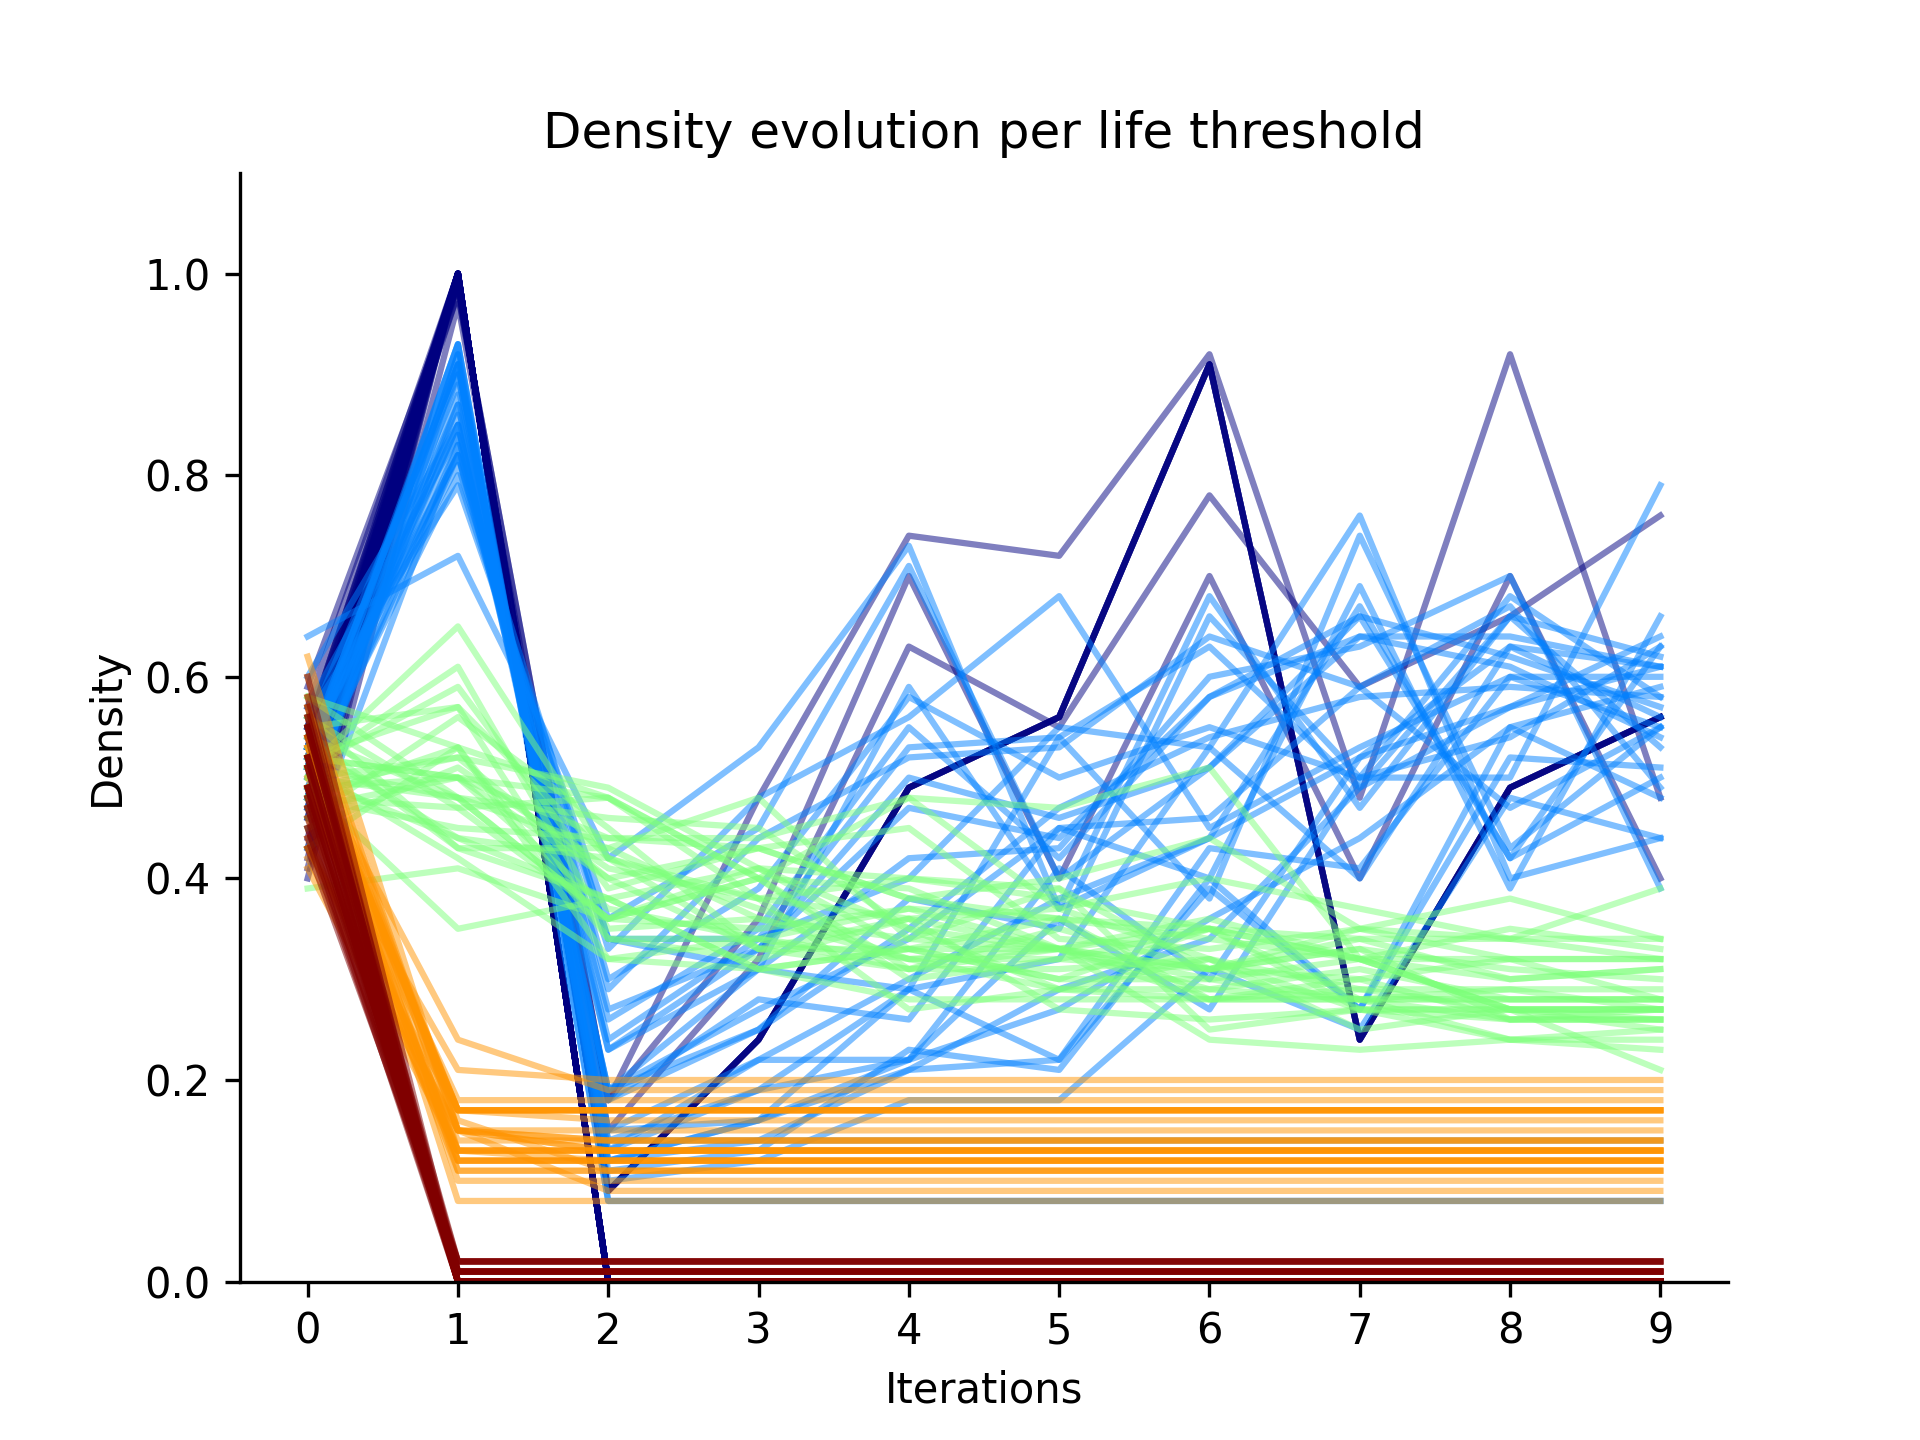
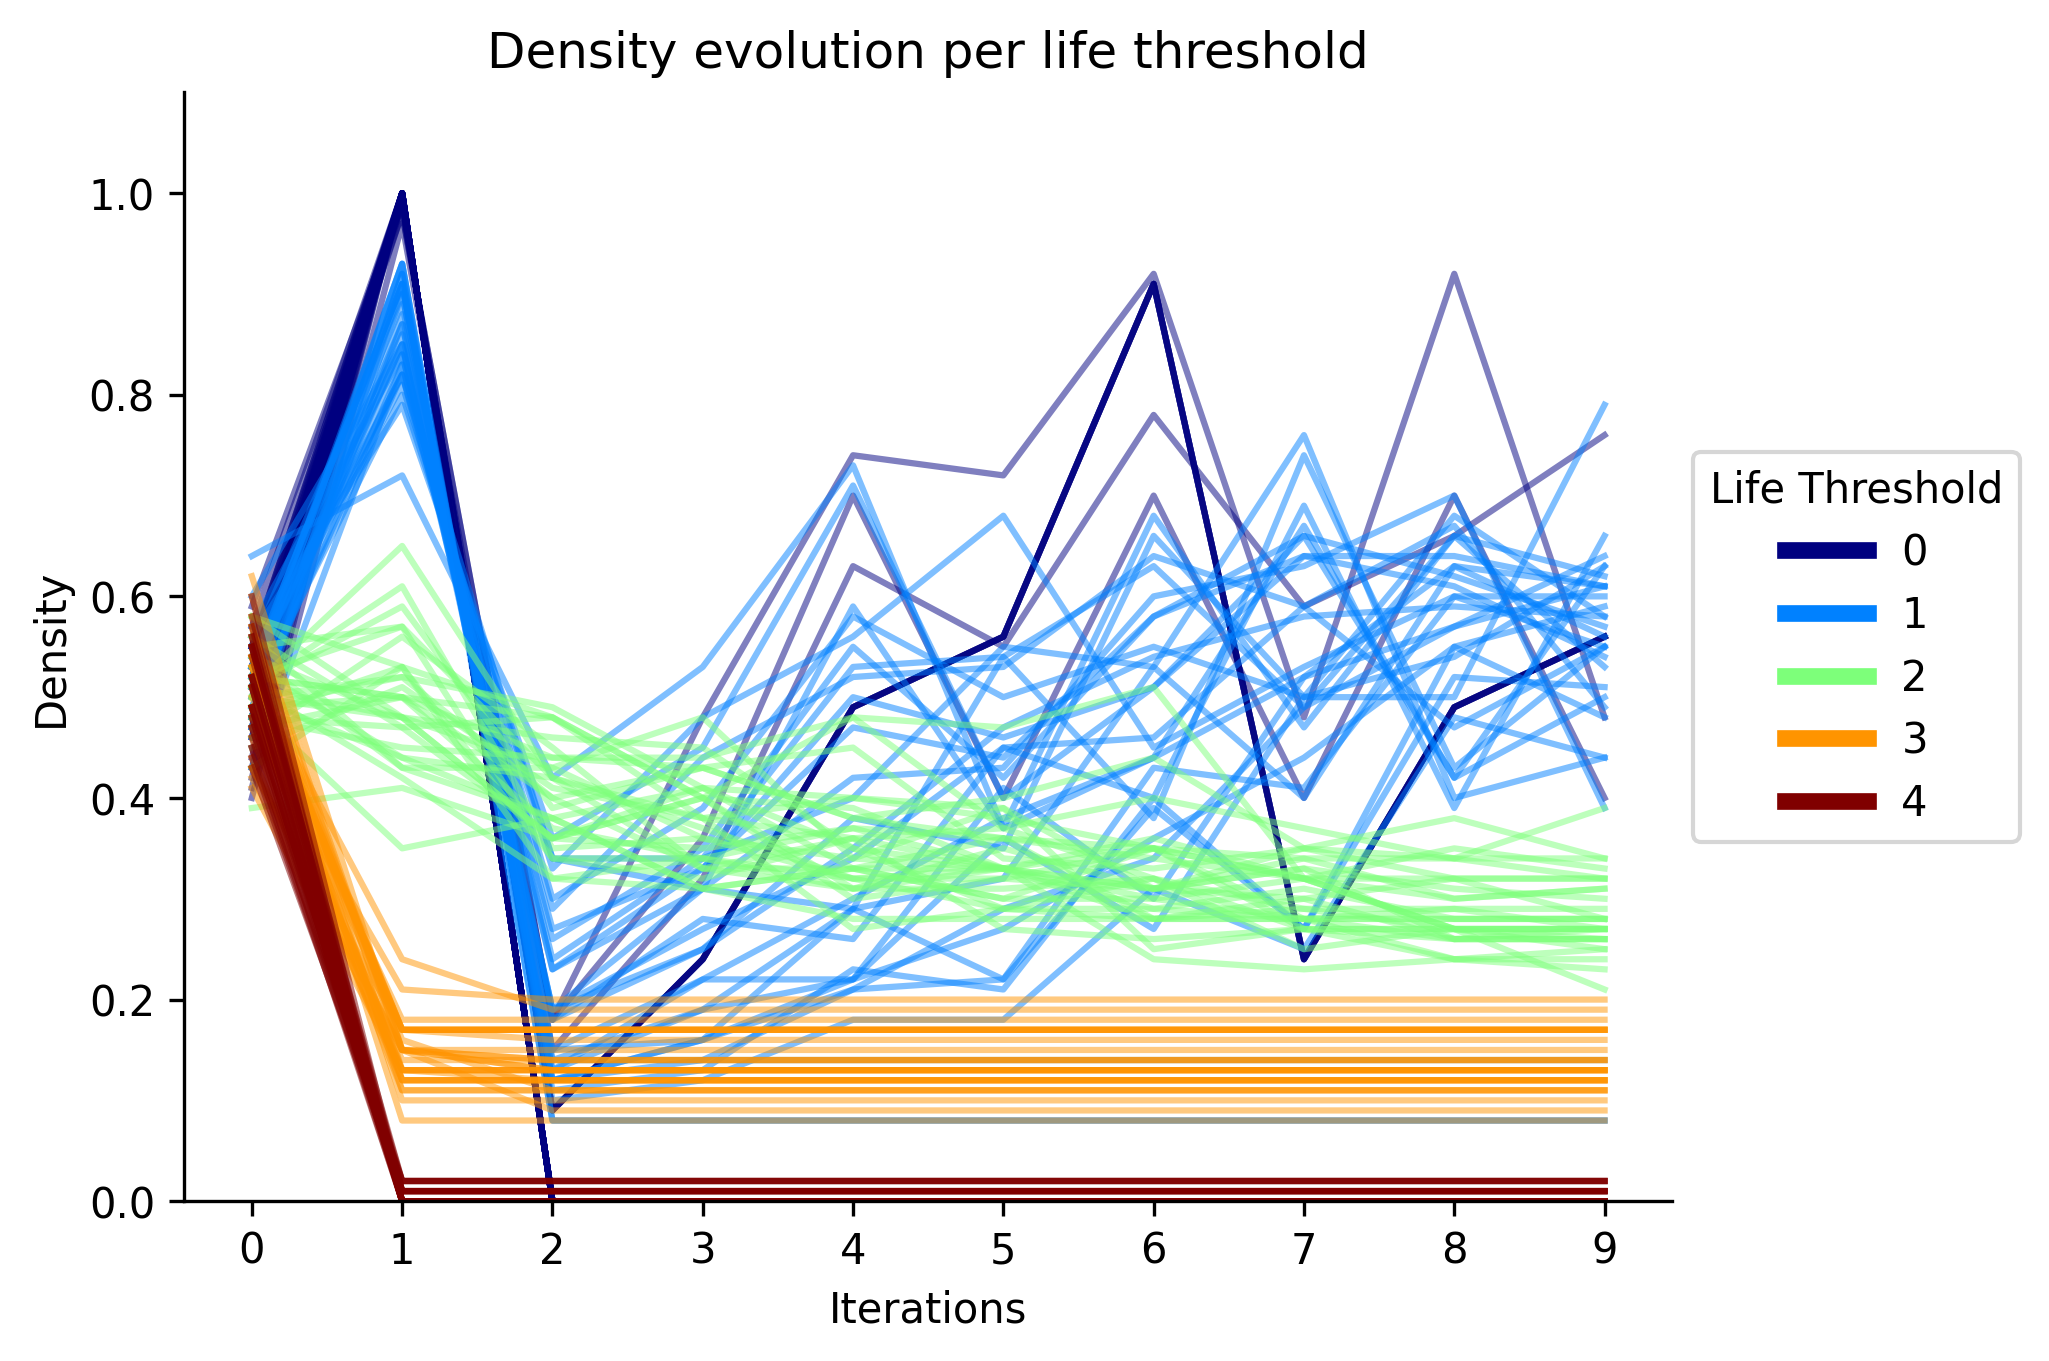
Add legend to plots

diff --git a/src/statistics/densities.py b/src/statistics/densities.py
@@ -5,6 +5,7 @@ import matplotlib.pyplot as plt
 from matplotlib.ticker import MaxNLocator
 from matplotlib import cm
 import numpy as np
+from matplotlib.lines import Line2D
 
 DENSITIES_FIGURES_FOLDER = f'{FIGURES_FOLDER}/statistics/densities'
 
@@ -86,7 +87,7 @@ def create_dataset_density_evolution_per_lt_plot(dataset, show=False, title="Den
     
     plot_density_evolutions_per_lt(density_evolutions_by_lt, lts, title)
     
-    plt.show() if show else plt.savefig(f'{DENSITIES_FIGURES_FOLDER}/density_evolution_lt_{dataset}.png', dpi=300)
+    plt.show() if show else plt.savefig(f'{DENSITIES_FIGURES_FOLDER}/density_evolution_lt_{dataset}.png', dpi=300, bbox_inches='tight')
     plt.close()
     
 
@@ -108,6 +109,13 @@ def plot_density_evolutions_per_lt(density_evolutions_by_lt, lts, title):
     ax.spines.top.set_visible(False)
     # integer x axis
     ax.xaxis.set_major_locator(MaxNLocator(integer=True))
+    # legend
+    custom_lines = [Line2D([0], [0], color=color, lw=4)
+                    for color in colors]
+    ax.legend(title="Life Threshold",fancybox=True,
+              handles=custom_lines, 
+              labels=range(0, 10),
+              loc='center left', bbox_to_anchor=(1, 0.5))
 
 # density evolution per life threshold
 
@@ -124,7 +132,7 @@ def create_dataset_density_evolution_per_dt_plot(dataset, show=False, title="Den
     
     plot_density_evolutions_per_dt(density_evolutions_by_dt, dts, title)
     
-    plt.show() if show else plt.savefig(f'{DENSITIES_FIGURES_FOLDER}/density_evolution_dt_{dataset}.png', dpi=300)
+    plt.show() if show else plt.savefig(f'{DENSITIES_FIGURES_FOLDER}/density_evolution_dt_{dataset}.png', dpi=300, bbox_inches='tight')
     plt.close()
     
 
@@ -146,3 +154,10 @@ def plot_density_evolutions_per_dt(density_evolutions_by_dt, dts, title):
     ax.spines.top.set_visible(False)
     # integer x axis
     ax.xaxis.set_major_locator(MaxNLocator(integer=True))
+    # legend
+    custom_lines = [Line2D([0], [0], color=color, lw=4)
+                    for color in colors]
+    ax.legend(title="Life Threshold",fancybox=True,
+              handles=custom_lines, 
+              labels=range(0, 10),
+              loc='center left', bbox_to_anchor=(1, 0.5))

diff --git a/src/main.py b/src/main.py
@@ -7,20 +7,20 @@ if __name__ == '__main__':
     # generate_dataset1()
     # generate_dataset2()
     # generate_dataset3()
-    generate_dataset4()
-    generate_dataset5()
+    # generate_dataset4()
+    # generate_dataset5()
     
     # create_dataset_density_evolution_plot(DATASET1)
     # create_dataset_density_evolution_plot(DATASET2)
     # create_dataset_density_evolution_plot(DATASET3)
-    create_dataset_density_evolution_plot(DATASET4)
-    create_dataset_density_evolution_plot(DATASET5)
+    # create_dataset_density_evolution_plot(DATASET4)
+    # create_dataset_density_evolution_plot(DATASET5)
 
     # create_dataset_density_variation_plot(DATASET1)
     # create_dataset_density_variation_plot(DATASET2)
     # create_dataset_density_variation_plot(DATASET3)
-    create_dataset_density_variation_plot(DATASET4)
-    create_dataset_density_variation_plot(DATASET5)
+    # create_dataset_density_variation_plot(DATASET4)
+    # create_dataset_density_variation_plot(DATASET5)
 
     create_dataset_density_evolution_per_lt_plot(DATASET1)
     create_dataset_density_evolution_per_lt_plot(DATASET2)
@@ -28,8 +28,8 @@ if __name__ == '__main__':
     create_dataset_density_evolution_per_lt_plot(DATASET4)
     create_dataset_density_evolution_per_lt_plot(DATASET5)
     
-    create_dataset_density_evolution_per_dt_plot(DATASET1)
-    create_dataset_density_evolution_per_dt_plot(DATASET2)
-    create_dataset_density_evolution_per_dt_plot(DATASET3)
-    create_dataset_density_evolution_per_dt_plot(DATASET4)
-    create_dataset_density_evolution_per_dt_plot(DATASET5)
+    # create_dataset_density_evolution_per_dt_plot(DATASET1)
+    # create_dataset_density_evolution_per_dt_plot(DATASET2)
+    # create_dataset_density_evolution_per_dt_plot(DATASET3)
+    # create_dataset_density_evolution_per_dt_plot(DATASET4)
+    # create_dataset_density_evolution_per_dt_plot(DATASET5)
